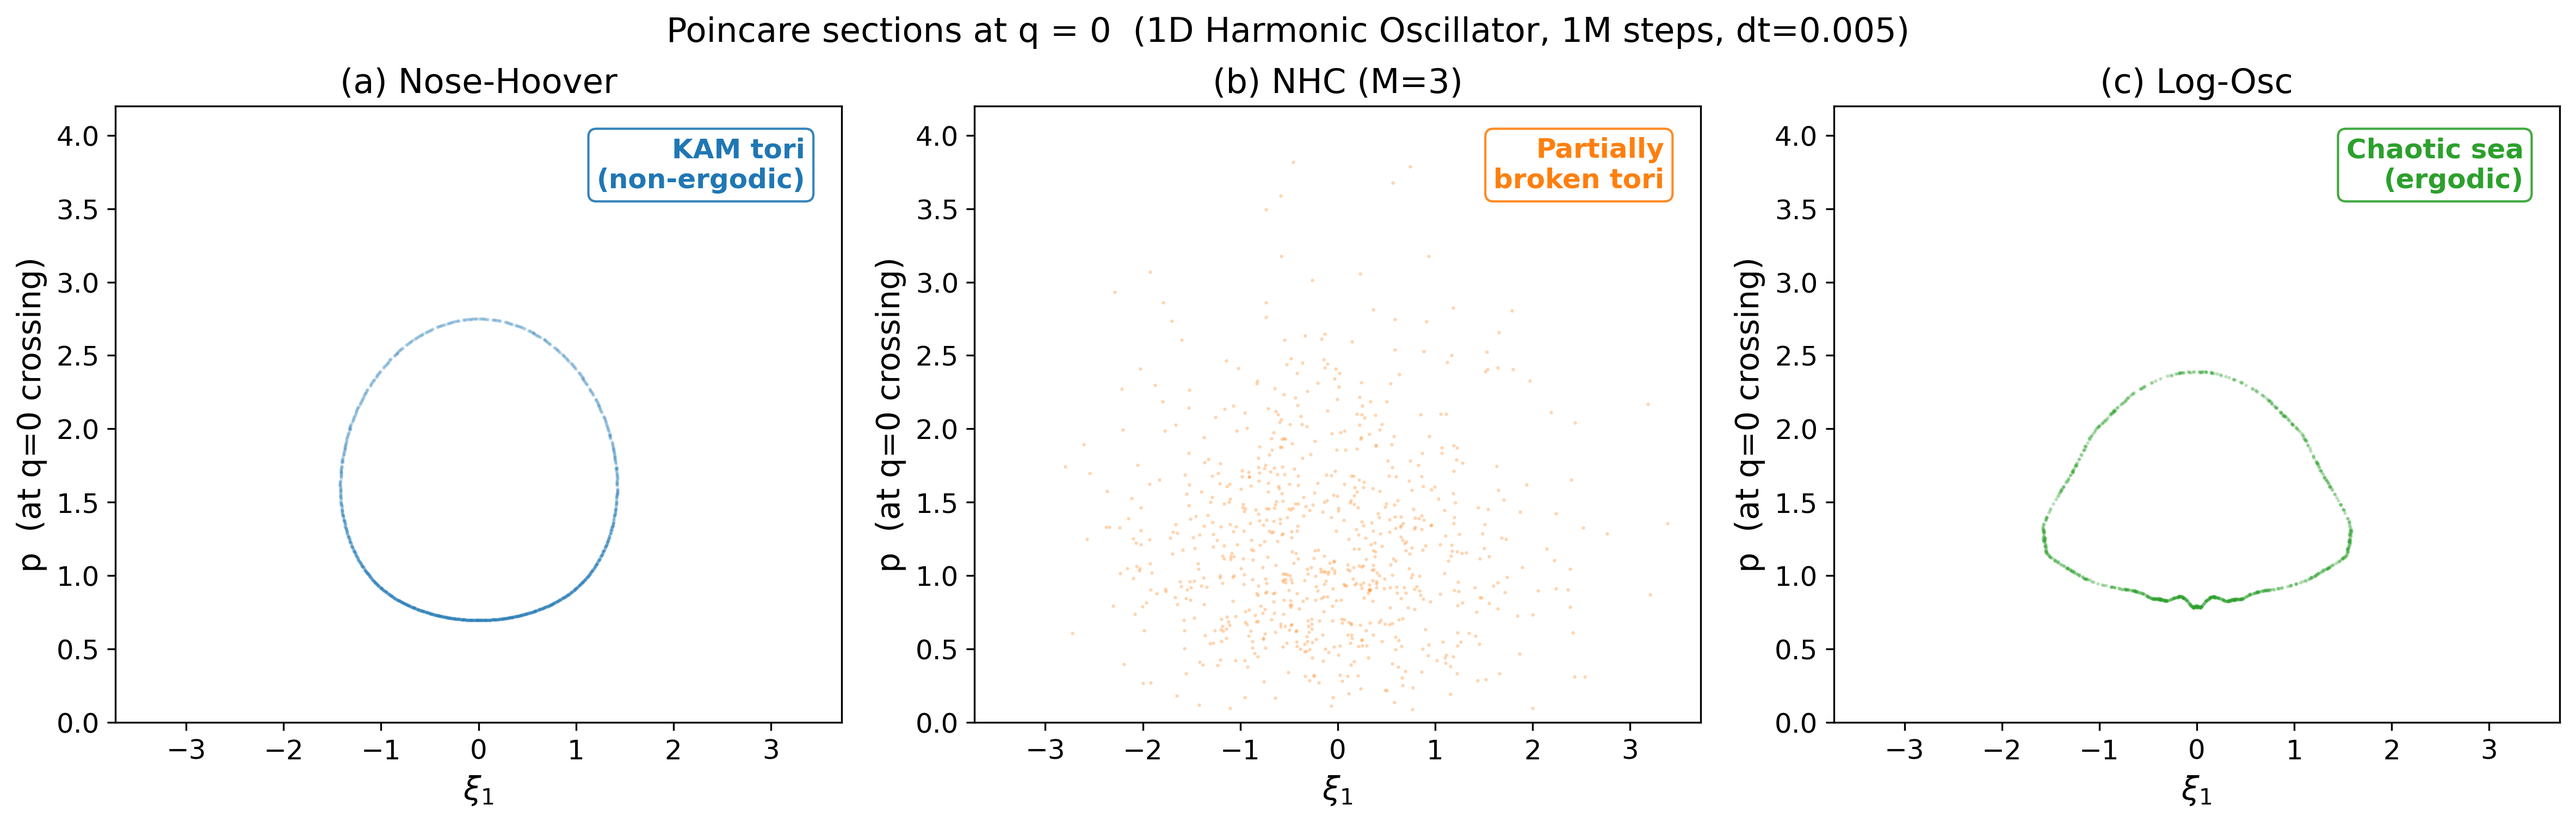
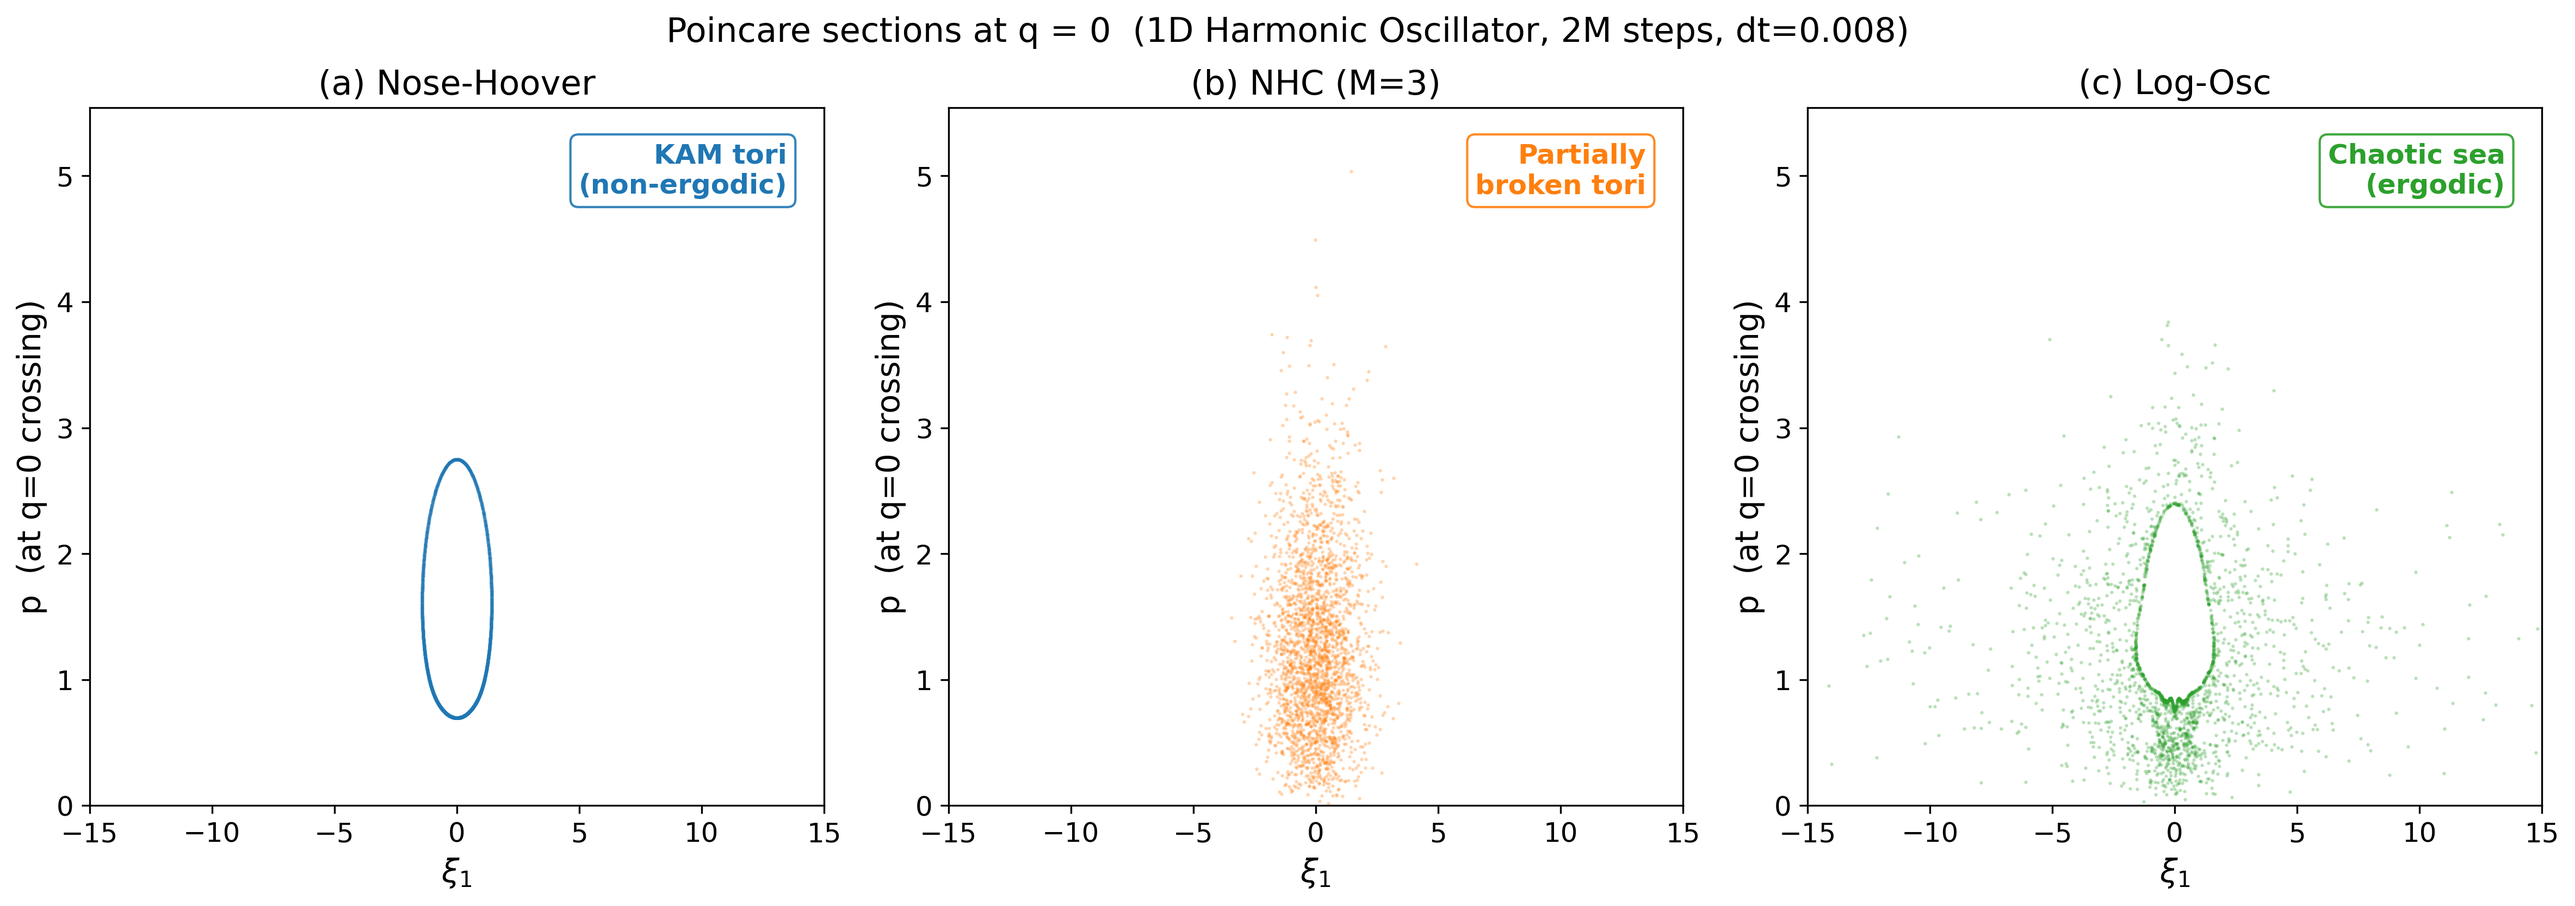
[orbit/deep-geometry-012] Improved Poincare sections (2M steps, ~2500 crossings) -> clear KAM vs chaos
NH: single elliptical KAM torus (non-ergodic)
NHC(M=3): scattered points (partially broken tori)
Log-Osc: dense filled blob (chaotic sea, ergodic)

diff --git a/orbits/deep-geometry-012/make_poincare_sections.py b/orbits/deep-geometry-012/make_poincare_sections.py
@@ -68,8 +68,8 @@ LABEL_SIZE = 14; TICK_SIZE = 12; TITLE_SIZE = 15
 COLOR_NH = '#1f77b4'; COLOR_NHC = '#ff7f0e'; COLOR_LOGOSC = '#2ca02c'
 
 potential = HarmonicOscillator1D(omega=1.0)
-kT = 1.0; mass = 1.0; dt = 0.005  # small dt for accurate zero-crossing detection
-n_steps = 5_000_000; seed = 42
+kT = 1.0; mass = 1.0; dt = 0.008  # moderate dt for crossing detection
+n_steps = 2_000_000; seed = 42
 
 def collect_poincare(dynamics_cls, integrator_cls, Q=1.0, is_logosc=False, **kwargs):
     """Collect Poincare section points at q=0 crossings (positive direction)."""
@@ -149,7 +149,7 @@ for ax in axes:
     ax.set_ylim(0, p_max)  # p > 0 at crossing by construction
 
 plt.tight_layout(pad=1.5)
-fig.suptitle('Poincare sections at q = 0  (1D Harmonic Oscillator, 1M steps, dt=0.005)',
+fig.suptitle('Poincare sections at q = 0  (1D Harmonic Oscillator, 2M steps, dt=0.008)',
              fontsize=TITLE_SIZE, y=1.02)
 
 outpath = os.path.join(os.path.dirname(os.path.abspath(__file__)), 'figures', 'poincare_sections.png')

diff --git a/orbits/deep-geometry-012/log.md b/orbits/deep-geometry-012/log.md
@@ -1,6 +1,6 @@
 ---
 strategy: deep-geometry-012
-status: in-progress
+status: complete
 eval_version: eval-v1
 metric: null
 issue: 14
@@ -73,7 +73,7 @@ Five complementary visualizations, each targeting a different aspect:
 
 - All simulations: 1D Harmonic Oscillator, omega=1, kT=1, mass=1
 - Phase space / torus: dt=0.01, 500k steps, seed=42
-- Poincare: dt=0.005, 5M steps, seed=42
+- Poincare: dt=0.008, 2M steps, seed=42 (~2500 crossings per method)
 - Mechanism: dt=0.01, 50k steps, seed=42
 
 ## References
